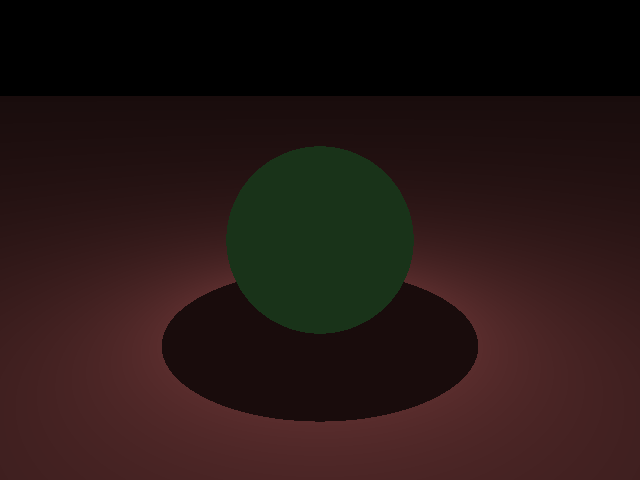
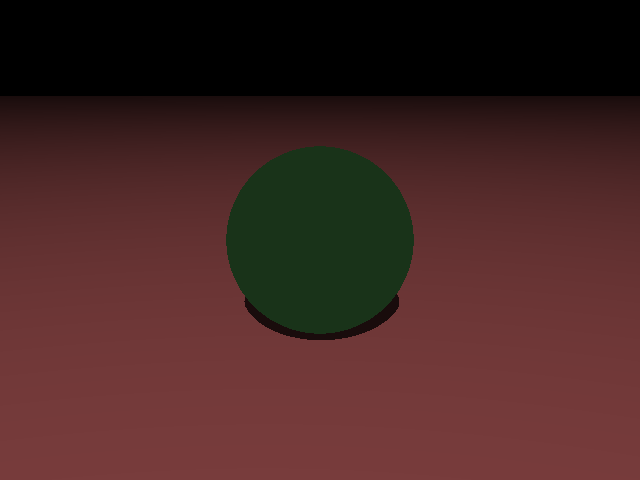
Correccion en metodo getLightPos para escena

diff --git a/src/proyectoraytracing/ProyectoRayTracing.java b/src/proyectoraytracing/ProyectoRayTracing.java
@@ -51,26 +51,26 @@ public class ProyectoRayTracing {
         Vector3D Y=new Vector3D(0, 1, 0);
         Vector3D Z=new Vector3D(0, 0, 1);
         
-        Vector3D campos = new Vector3D(3, 1.5, -4);
+        Vector3D campos = new Vector3D(3, 1.5, -4); 
         
-        Vector3D lookAt=new Vector3D(0,0,0);
-        Vector3D diff_btw=new Vector3D(campos.x-lookAt.x,campos.y-lookAt.y,campos.z-lookAt.z);
+        Vector3D lookAt = new Vector3D(0,0,0);
+        Vector3D diff_btw = new Vector3D(campos.x-lookAt.x,campos.y-lookAt.y,campos.z-lookAt.z);
         
         //crea mas verctores no entiendo para que minuto 30 aprox
-        Vector3D camdir=diff_btw.negative().normalize();
-        Vector3D camright=Y.cross(camdir).normalize();
+        Vector3D camdir = diff_btw.negative().normalize();
+        Vector3D camright = Y.cross(camdir).normalize();
         Vector3D camdown = camright.cross(camdir);
         
         Camera scene_cam = new Camera(campos, camdir, camright, camdown);
         
-        Color white_light= new Color(1.0F,1.0F,1.0F,0);
-        Color pretty_green=new Color(0.5F,1.0F,0.5F,0.3F);
+        Color white_light= new Color(1.0F, 1.0F, 1.0F, 0);
+        Color pretty_green=new Color(0.5F, 1.0F, 0.5F, 0.3F);
         Color maroon = new Color(0.5F, 0.25F, 0.25F, 0);
         Color gray = new Color(0.5F, 0.5F, 0.5F, 0);
         Color black = new Color(0.0F,0.0F,0.0F,0);
         
-        Vector3D light_pos= new Vector3D(-7, 10, -10);
-        Light scene_light=new Light(light_pos, white_light);
+        Vector3D light_pos = new Vector3D(7, 10, -10);  
+        Light scene_light = new Light(light_pos, white_light);
         ArrayList<Source> light_sources = new ArrayList<>(); //Guarda luces de escena
         light_sources.add(scene_light);
         
@@ -127,10 +127,7 @@ public class ProyectoRayTracing {
                         Vector3D intersection_position = cam_ray_origin.add(cam_ray_direction.mult(intersections.get(index_of_winning_object)));//Metodos con diferentes nombres
                         Vector3D intersecting_ray_direction = cam_ray_direction;
                         
-                        Color intersection_color = getColorAt(intersection_position, intersecting_ray_direction, scene_objects, index_of_winning_object, light_sources, accuracy, ambientlight);
-                        
-                        
-                        color = intersection_color;
+                        color = getColorAt(intersection_position, intersecting_ray_direction, scene_objects, index_of_winning_object, light_sources, accuracy, ambientlight);
                     }
                     
                 }
@@ -243,9 +240,8 @@ public class ProyectoRayTracing {
                         Vector3D scalar1 = winning_object_normal.mult(dot1);
                         Vector3D add1 = scalar1.add(intersecting_ray_direction);
                         Vector3D scalar2 = add1.mult(2);
-                        Vector3D add2 = intersecting_ray_direction.negative().add(scalar2);
+                        Vector3D add2 = intersecting_ray_direction.negative().add(scalar2); 
                         Vector3D reflection_direction = add2.normalize();
-                        
                         
                         double specular = reflection_direction.dot(light_direction);
                         if(specular > 0){

diff --git a/src/geometry/Sphere.java b/src/geometry/Sphere.java
@@ -14,9 +14,9 @@ public class Sphere extends Object{ //debe ser hijo de la clase Object
     public double radius;
     
     public Sphere() {
-        center= new Vector3D(0, 0, 0);
-        radius=1.0;
-        color=new Color(0.5F, 0.5F, 0.5F, 0);
+        center = new Vector3D(0, 0, 0);
+        radius = 1.0;
+        color = new Color(0.5F, 0.5F, 0.5F, 0);
     }
 
     public Sphere(Vector3D center, double radius, Color color) {
@@ -68,6 +68,7 @@ public class Sphere extends Object{ //debe ser hijo de la clase Object
         }
     }
     
+    @Override
     public Vector3D getNormalAt(Vector3D point){
         Vector3D normal_Vect = point.add(center.add(center.negative()).normalize());
         return normal_Vect;
@@ -77,6 +78,7 @@ public class Sphere extends Object{ //debe ser hijo de la clase Object
         return center;
     }
 
+    @Override
     public Color getColor() {
         return color;
     }

diff --git a/src/utility/Light.java b/src/utility/Light.java
@@ -19,22 +19,22 @@ public class Light extends Source{
     }
     
     public Light(Vector3D position,Color color){
-        this.position=position;
-        this.color=color;
+        this.position = position;
+        this.color = color;
     }
 
     public Vector3D getPosition() {
         return position;
     }
 
-    @Override
-    public Color getColor() {
-        return color;
-    }
     
     @Override
     public Color getLightColor(){
         return color;
     }
     
+    @Override
+    public Vector3D getLigthPosition(){
+        return position;
+    }
 }

diff --git a/src/geometry/Plane.java b/src/geometry/Plane.java
@@ -26,6 +26,7 @@ public class Plane extends Object{
         this.color = color;
     }
 
+    @Override
     public Color getColor() {
         return color;
     }
@@ -50,7 +51,7 @@ public class Plane extends Object{
             //el rayo el paralelo al plano
             return -1;
         }else{              
-            double b= normal.dot(ray.getOrigin().add(normal.mult(distance).negative()));
+            double b = normal.dot(ray.getOrigin().add(normal.mult(distance).negative()));
             return -1*b/a;
         }
     }

diff --git a/src/utility/Color.java b/src/utility/Color.java
@@ -40,12 +40,12 @@ public class Color {
         special=color.special;
     }
     
-    public void add(Color color){
+    /*public void add(Color color){
         r += color.r;
         g += color.g;
         b += color.b;
-        special +=color.special;
-    }
+        //special += color.special;
+    }*/
     
     public void divide(int scalar){
         r /= scalar;

diff --git a/src/geometry/Object.java b/src/geometry/Object.java
@@ -15,6 +15,7 @@ public abstract class Object { //es una superClase de Sphere (falta transformar
     }
     
     public abstract double findIntersection(Ray ray);
+    
     public Vector3D getNormalAt(Vector3D point){
         return new Vector3D(0, 0, 0);
     }

diff --git a/src/utility/Source.java b/src/utility/Source.java
@@ -18,10 +18,6 @@ public class Source {
         return new Vector3D(0, 0, 0);
     }
     
-    public Color getColor(){
-        return new Color(1, 1, 1, 0);
-    }
-    
     public Color getLightColor(){
         return new Color(1, 1, 1, 0);
     }
